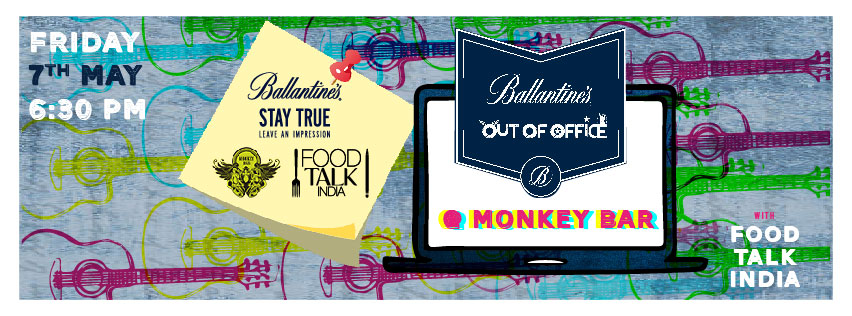
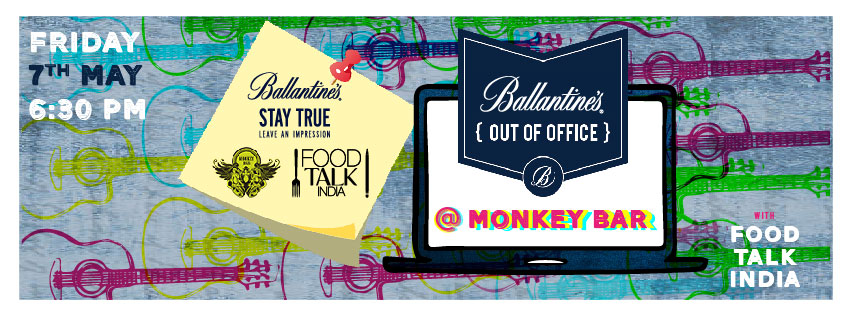
may day rsvp form

Changed region(s): [[0.5188, 0.0854, 0.7629, 0.6266], [0.4883, 0.6551, 0.7934, 0.7405]]

diff --git a/views/81.php b/views/81.php
@@ -148,85 +148,102 @@
 
     <body>
       <div class="intro hide-on-med-and-up">
-        <img src="../img/cover79.jpg" class="responsive-img">
+        <img src="../img/cover80.jpg" class="responsive-img">
       </div>
       <div class="container">
         <div class="row hide-on-small-only">
           <div class="col s12 m12 l12">
             <div class="intro">
-              <img src="../img/cover79.jpg" class="responsive-img">
+              <img src="../img/cover80.jpg" class="responsive-img">
             </div>
           </div>
         </div>
         <div class="row">
-          <div class="col s12 m12 l12 center mt-l">
-            <h3>May day</h3>
-            <p>present</p>
-            <h4 class="">Kashmir a Culinary Exploration<h4>
-            <p>June 2-5</p>
+          <div class="col s12 m12 l12 center">
+            <h3>May-Day! May-Day!</h3>
+            <p>It's time to let loose and come out and play with your work Peeps! </p>
+            <h6>Ballantine's Out of Office Night at Monkey Bar Delhi <br>
+                  Friday, 6th May'16 | 7:30pm onwards</h6>
+                  <p>We've got Cocktail ,Team challenges & a Bar that's doing Over Time. </p>
+                  <p>So turn on your Autoresponder to -Out off-Office - and get ready for some Monkey Madness & After-Office work fun with Food Talk India</p>
+                  <h6>RSVP your Office team below </h6>
+                  <p>PS-First 50 to register here get their first drink on us!</p>
+                  
+                  <br>
+                  <p>Dress Code I Casual Friday's <br>
+                    Date | Friday, 6th May 2016 <br>
+                    Time |7:30 pm <br>
+                    Venue | Monkey Bar, Vasant Kunj</p>
+
+                 
           </div>
-          <div class="col s12 m10 offset-m1 l10 offset-l1 center">
-            <p>Fill your details </p>
-          </div>
-          
           <div class="col s12 m12 l12  red-c">
             <form id="frm">
               <div class="col s12 m12 l12">
-                <div class="col s12 m12 l12 center mt-mid">
+                <div class="row">
+                  <div class="col s12 m6 l6">
+                    <label for="name" >Name *</label>
+                    <input id="name" type="text" name="name" class="validate imp" value="<?php echo $user['name']; ?>">
+                  </div>
+                  <div class="col s12 m6 l6">
+                    <label for="email">Email Address *</label>
+                    <input id="email" type="email" name="email" class="validate imp" value="<?php echo $user['email']; ?>">
+                  </div>
+                  <div class="col s12 m6 l6">
+                    <label for="phone">Phone number *</label>
+                    <input id="phone" type="tel" class="validate imp" name="phone" minlength="10" maxlength="10" value="<?php echo $user['contact']; ?>">
+                  </div>
+                  <div class="col s12 m6 l6">
+                    <label for="email" >Date of Birth *</label>
+                    <input id="dob" type="date" class="datepicker" class="validate" name="dob" value="<?php echo $user['dob']; ?>">
+                  </div>
+                  <!-- <div class="col s12 m6 l6">
+                    <label for="city">City *</label>
+                    <select name="city" id="city" class="browser-default">
+                      <option value="Delhi">Delhi</option>
+                      <option value="Mumbai">Mumbai</option>
+                      <option value="Pune">Pune</option>
+                      <option value="Bangalore">Bangalore</option>
+                      <option value="Other">Other</option>
+                    </select>
+                  </div>
+                  <div class="col s12 m6 l6">
+                    <label for="other">Other</label>
+                    <input type="text" id="other" class="validate" name="other">
+                  </div> -->
+                  <div class="col s12 m6 l6">
+                    <label for="insta">Instagram Handle *</label>
+                    <input type="text" class="validate imp" name="insta" id="insta" value="<?php echo $user['instagram_handle']; ?>">
+                  </div>
                 </div>
-                <div class="col s12 m6 l6">
-                  <label for="name" >Name *</label>
-                  <input id="name" type="text" name="name" class="validate imp" value="<?php echo $user['name']; ?>">
-                </div>
-                <div class="col s12 m6 l6">
-                  <label for="email">Email Address *</label>
-                  <input id="email" type="email" name="email" class="validate imp" value="<?php echo $user['email']; ?>">
-                </div>
-                <div class="col s12 m6 l6">
-                  <label for="phone">Phone number *</label>
-                  <input id="phone" type="tel" class="validate imp" name="phone" minlength="10" maxlength="10" value="<?php echo $user['contact']; ?>">
-                </div>
-                <div class="col s12 m6 l6">
-                  <label for="email" >Date of Birth *</label>
-                  <input id="dob" type="date" class="datepicker" class="validate" name="dob" value="<?php echo $user['dob']; ?>">
-                </div>
-                <!-- <div class="col s12 m6 l6">
-                  <label for="city">City *</label>
-                  <select name="city" id="city" class="browser-default">
-                    <option value="Delhi">Delhi</option>
-                    <option value="Mumbai">Mumbai</option>
-                    <option value="Pune">Pune</option>
-                    <option value="Bangalore">Bangalore</option>
-                    <option value="Other">Other</option>
-                  </select>
-                </div>
-                <div class="col s12 m6 l6">
-                  <label for="other">Other</label>
-                  <input type="text" id="other" class="validate" name="other">
-                </div> -->
-                <div class="col s12 m6 l6">
-                  <label for="insta">Instagram Handle *</label>
-                  <input type="text" class="validate imp" name="insta" id="insta" value="<?php echo $user['instagram_handle']; ?>">
-                </div>
-                <div class="col s12 m6 l6">
-                  <label for="c_name" >Company Name *</label>
-                  <input type="text" class="validate imp" name="c_name" id="c_name" value="">
-                </div>
-                <div class="col s12 m6 l6">
-                  <label for="s_name1" >Member 1</label>
-                  <input type="text" class="validate" name="s_name1" id="s_name1" value="">
-                </div>
-                <div class="col s12 m6 l6">
-                  <label for="s_name2" >Member 2</label>
-                  <input type="text" class="validate" name="s_name2" id="s_name2" value="">
-                </div>
-                <div class="col s12 m6 l6">
-                  <label for="s_name3" >Member 3</label>
-                  <input type="text" class="validate" name="s_name3" id="s_name3" value="">
-                </div>
-                <div class="col s12 m6 l6">
-                  <label for="s_name4" >Member 4</label>
-                  <input type="text" class="validate" name="s_name4" id="s_name4" value="">
+                <div class="row">
+                  <div class="col s12 m12 l12">
+                    <h6>Register your Office Team</h6>
+                  </div>
+                  <div class="col s12 m6 l6">
+                    <label for="c_name" >Company Name *</label>
+                    <input type="text" class="validate imp" name="c_name" id="c_name" value="">
+                  </div>
+                  <div class="col s12 m6 l6">
+                    <label for="s_name1" >Member 1</label>
+                    <input type="text" class="validate" name="s_name1" id="s_name1" value="">
+                  </div>
+                  <div class="col s12 m6 l6">
+                    <label for="s_name2" >Member 2</label>
+                    <input type="text" class="validate" name="s_name2" id="s_name2" value="">
+                  </div>
+                  <div class="col s12 m6 l6">
+                    <label for="s_name3" >Member 3</label>
+                    <input type="text" class="validate" name="s_name3" id="s_name3" value="">
+                  </div>
+                  <div class="col s12 m6 l6">
+                    <label for="s_name4" >Member 4</label>
+                    <input type="text" class="validate" name="s_name4" id="s_name4" value="">
+                  </div>
+                  <div class="col s12 m6 l6">
+                    <label for="s_name5" >Member 5</label>
+                    <input type="text" class="validate" name="s_name5" id="s_name5" value="">
+                  </div>
                 </div>
               </div>
               
@@ -336,7 +353,8 @@
                 Team1 : $('#s_name1').val(),
                 Team2 : $('#s_name2').val(),
                 Team3 : $('#s_name3').val(),
-                Team4 : $('#s_name4').val()
+                Team4 : $('#s_name4').val(),
+                Team5 : $('#s_name5').val()
               }
               // console.log(response);
               var URL_INSERT = "http://api.foodtalk.in/user/"+id+"/rsvp";
